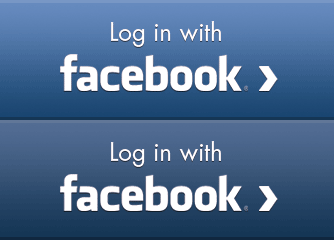
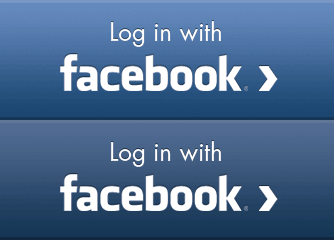
new batch bg

diff --git a/public/stylesheets/home.css b/public/stylesheets/home.css
@@ -433,7 +433,7 @@ body.home7 {
 	left: 0px;
 	right: 0px;
 	bottom: 0px;
-	background: url('/images/black_40.png');
+	background: url('/images/black_16.png');
 }
 
 #container.home7 {
